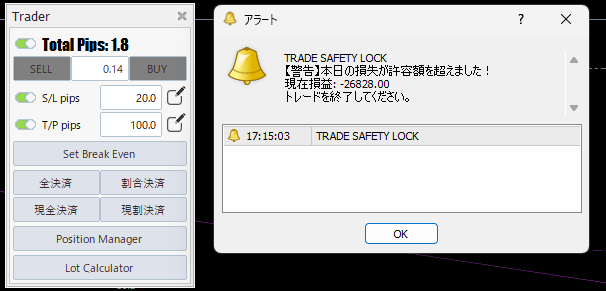
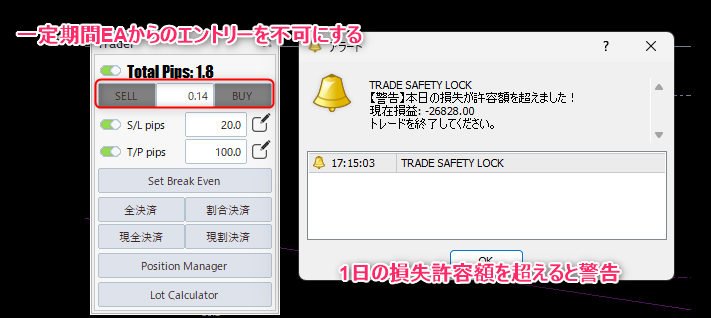
Deployed 91c0056 with MkDocs version: 1.6.1

diff --git a/v2.2.0/explaination/trade_safety_lock/index.html b/v2.2.0/explaination/trade_safety_lock/index.html
@@ -1832,7 +1832,7 @@
 
 
 <h1 id="trade-safety-lock">Trade Safety Lock</h1>
-<p><img alt="Alt text" src="../../../_img/v2.2.0/2026-03-12_16h01_51.png" /></p>
+<p><img alt="Alt text" src="../../../_img/v2.2.0/2026-03-12_17h15_22.png" /></p>
 <p>予め設定された一日の確定損失額または証拠金に対する確定損失割合を越えた場合、トレードを中止を促すアラートが表示します。
 また、SafetyLock発動中はVergeRunnerのエントリー機能を使用できなくなります。  </p>
 <div class="admonition tips">
@@ -1845,7 +1845,7 @@
 <p>MT4標準機能からのエントリーは行えます。</p>
 </div>
 <h2 id="_1">設定方法</h2>
-<p><img alt="Alt text" src="../../../_img/v2.2.0/2026-03-12_17h02_32.png" /></p>
+<p><img alt="Alt text" src="../../../_img/v2.2.0/2026-03-12_16h01_51.png" /></p>
 <p>EA設定から「トレードセーフティロックモード」を無効から <strong>損失額で設定</strong> または <strong>損失割合で設定</strong> のいずれかに変更します。</p>
 <h3 id="_2">損失額で設定</h3>
 <p>損失額で設定モードは、EA設定で「1日の最大許容損失額(口座通貨)」で設定された金額に当日の確定損失額が達した際に警告が発せられ、VergeRunnerからのエントリーが行えなくなります。</p>

diff --git a/release_note/v2.2.2/index.html b/release_note/v2.2.2/index.html
@@ -1896,7 +1896,7 @@
 <h1 id="release-note-v222">Release Note v2.2.2</h1>
 <h2 id="_1">新機能</h2>
 <h3 id="tradesafetylock"><a href="../../v2.2.0/explaination/trade_safety_lock/">TradeSafetyLock</a></h3>
-<p><img alt="Alt text" src="../../_img/v2.2.0/2026-03-12_16h01_51.png" /></p>
+<p><img alt="Alt text" src="../../_img/v2.2.0/2026-03-12_17h15_22.png" /></p>
 <p>予め設定された一日の確定損失額または証拠金に対する確定損失割合を越えた場合、トレードを中止を促すアラートが表示できるようになりました。<br />
 また、SafetyLock発動中はVergeRunnerのエントリー機能を使用できなくなります。<br />
 ※ <strong>MT4標準機能を使用したエントリーは可能です。</strong></p>

diff --git a/v2.2.0/new_features/index.html b/v2.2.0/new_features/index.html
@@ -1783,7 +1783,7 @@
 
 <h1 id="_1">新機能</h1>
 <h2 id="tradesafetylock"><a href="../explaination/trade_safety_lock/">TradeSafetyLock</a></h2>
-<p><img alt="Alt text" src="../../_img/v2.2.0/2026-03-12_16h01_51.png" /></p>
+<p><img alt="Alt text" src="../../_img/v2.2.0/2026-03-12_17h15_22.png" /></p>
 <p>予め設定された一日の確定損失額または証拠金に対する確定損失割合を越えた場合、トレードを中止を促すアラートが表示できるようになりました。<br />
 また、SafetyLock発動中はVergeRunnerのエントリー機能を使用できなくなります。  </p>
 <p>※ <strong>MT4標準機能を使用したエントリーは可能です。</strong>  </p>
